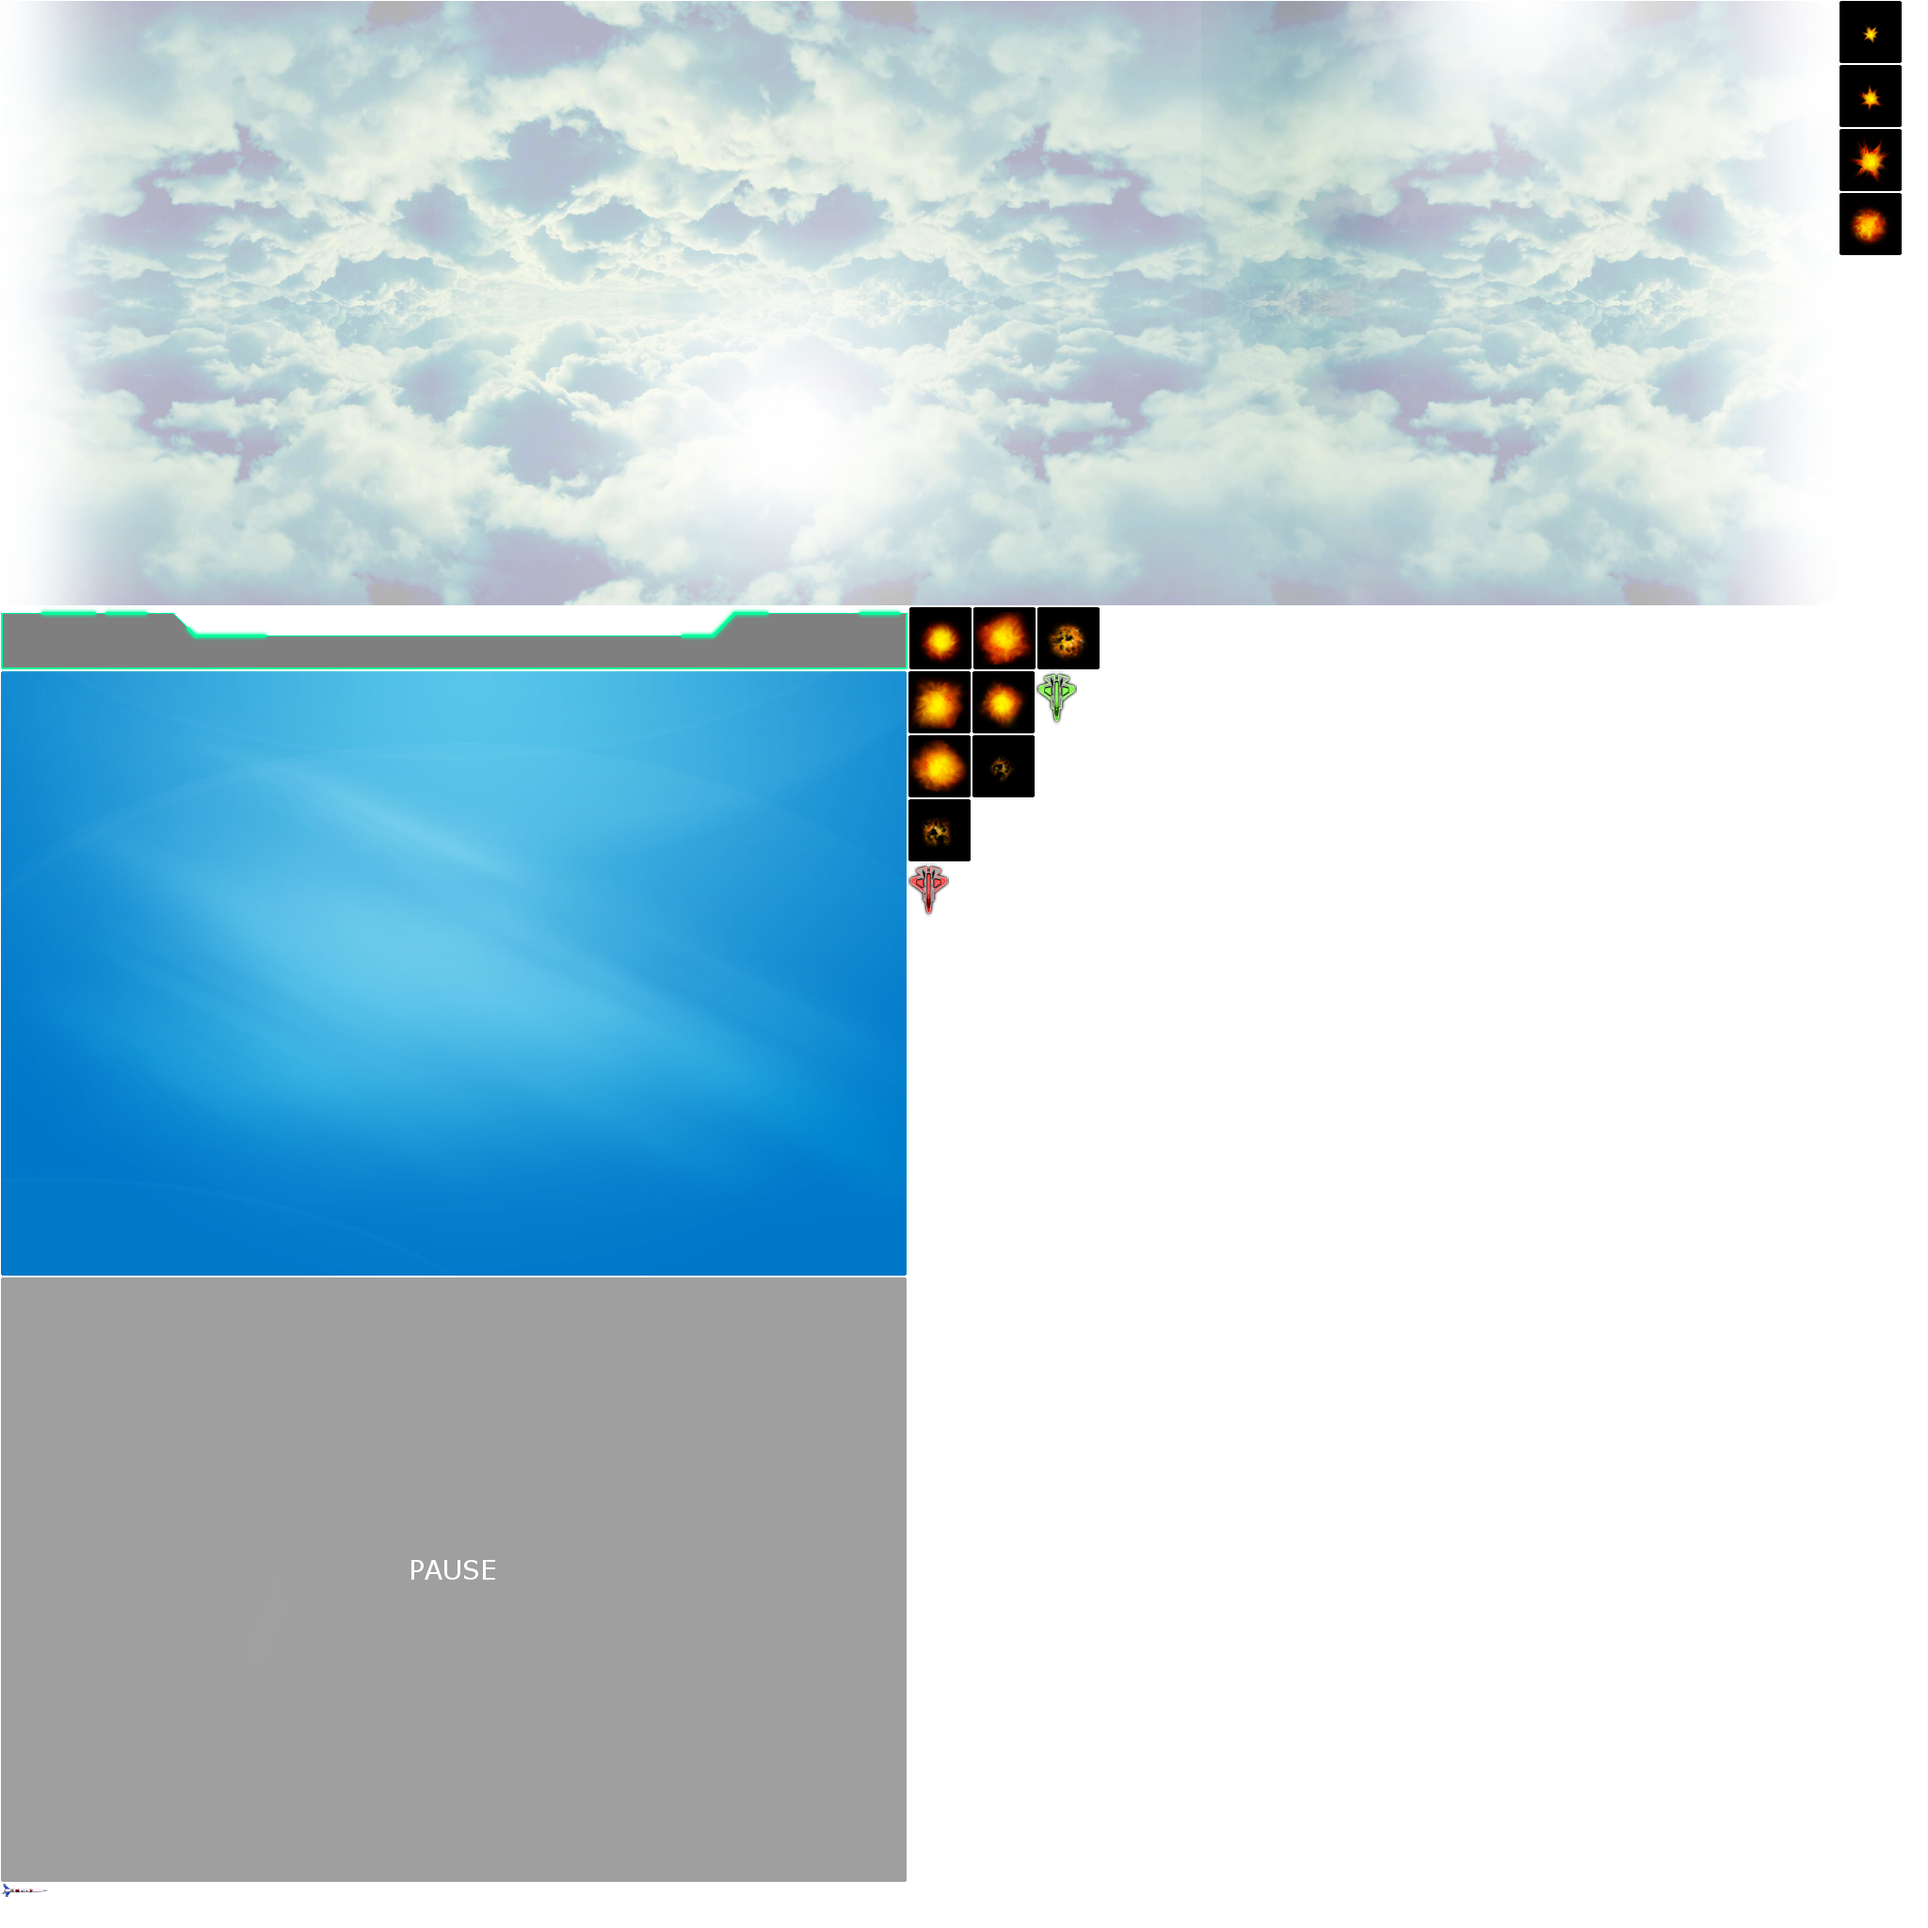
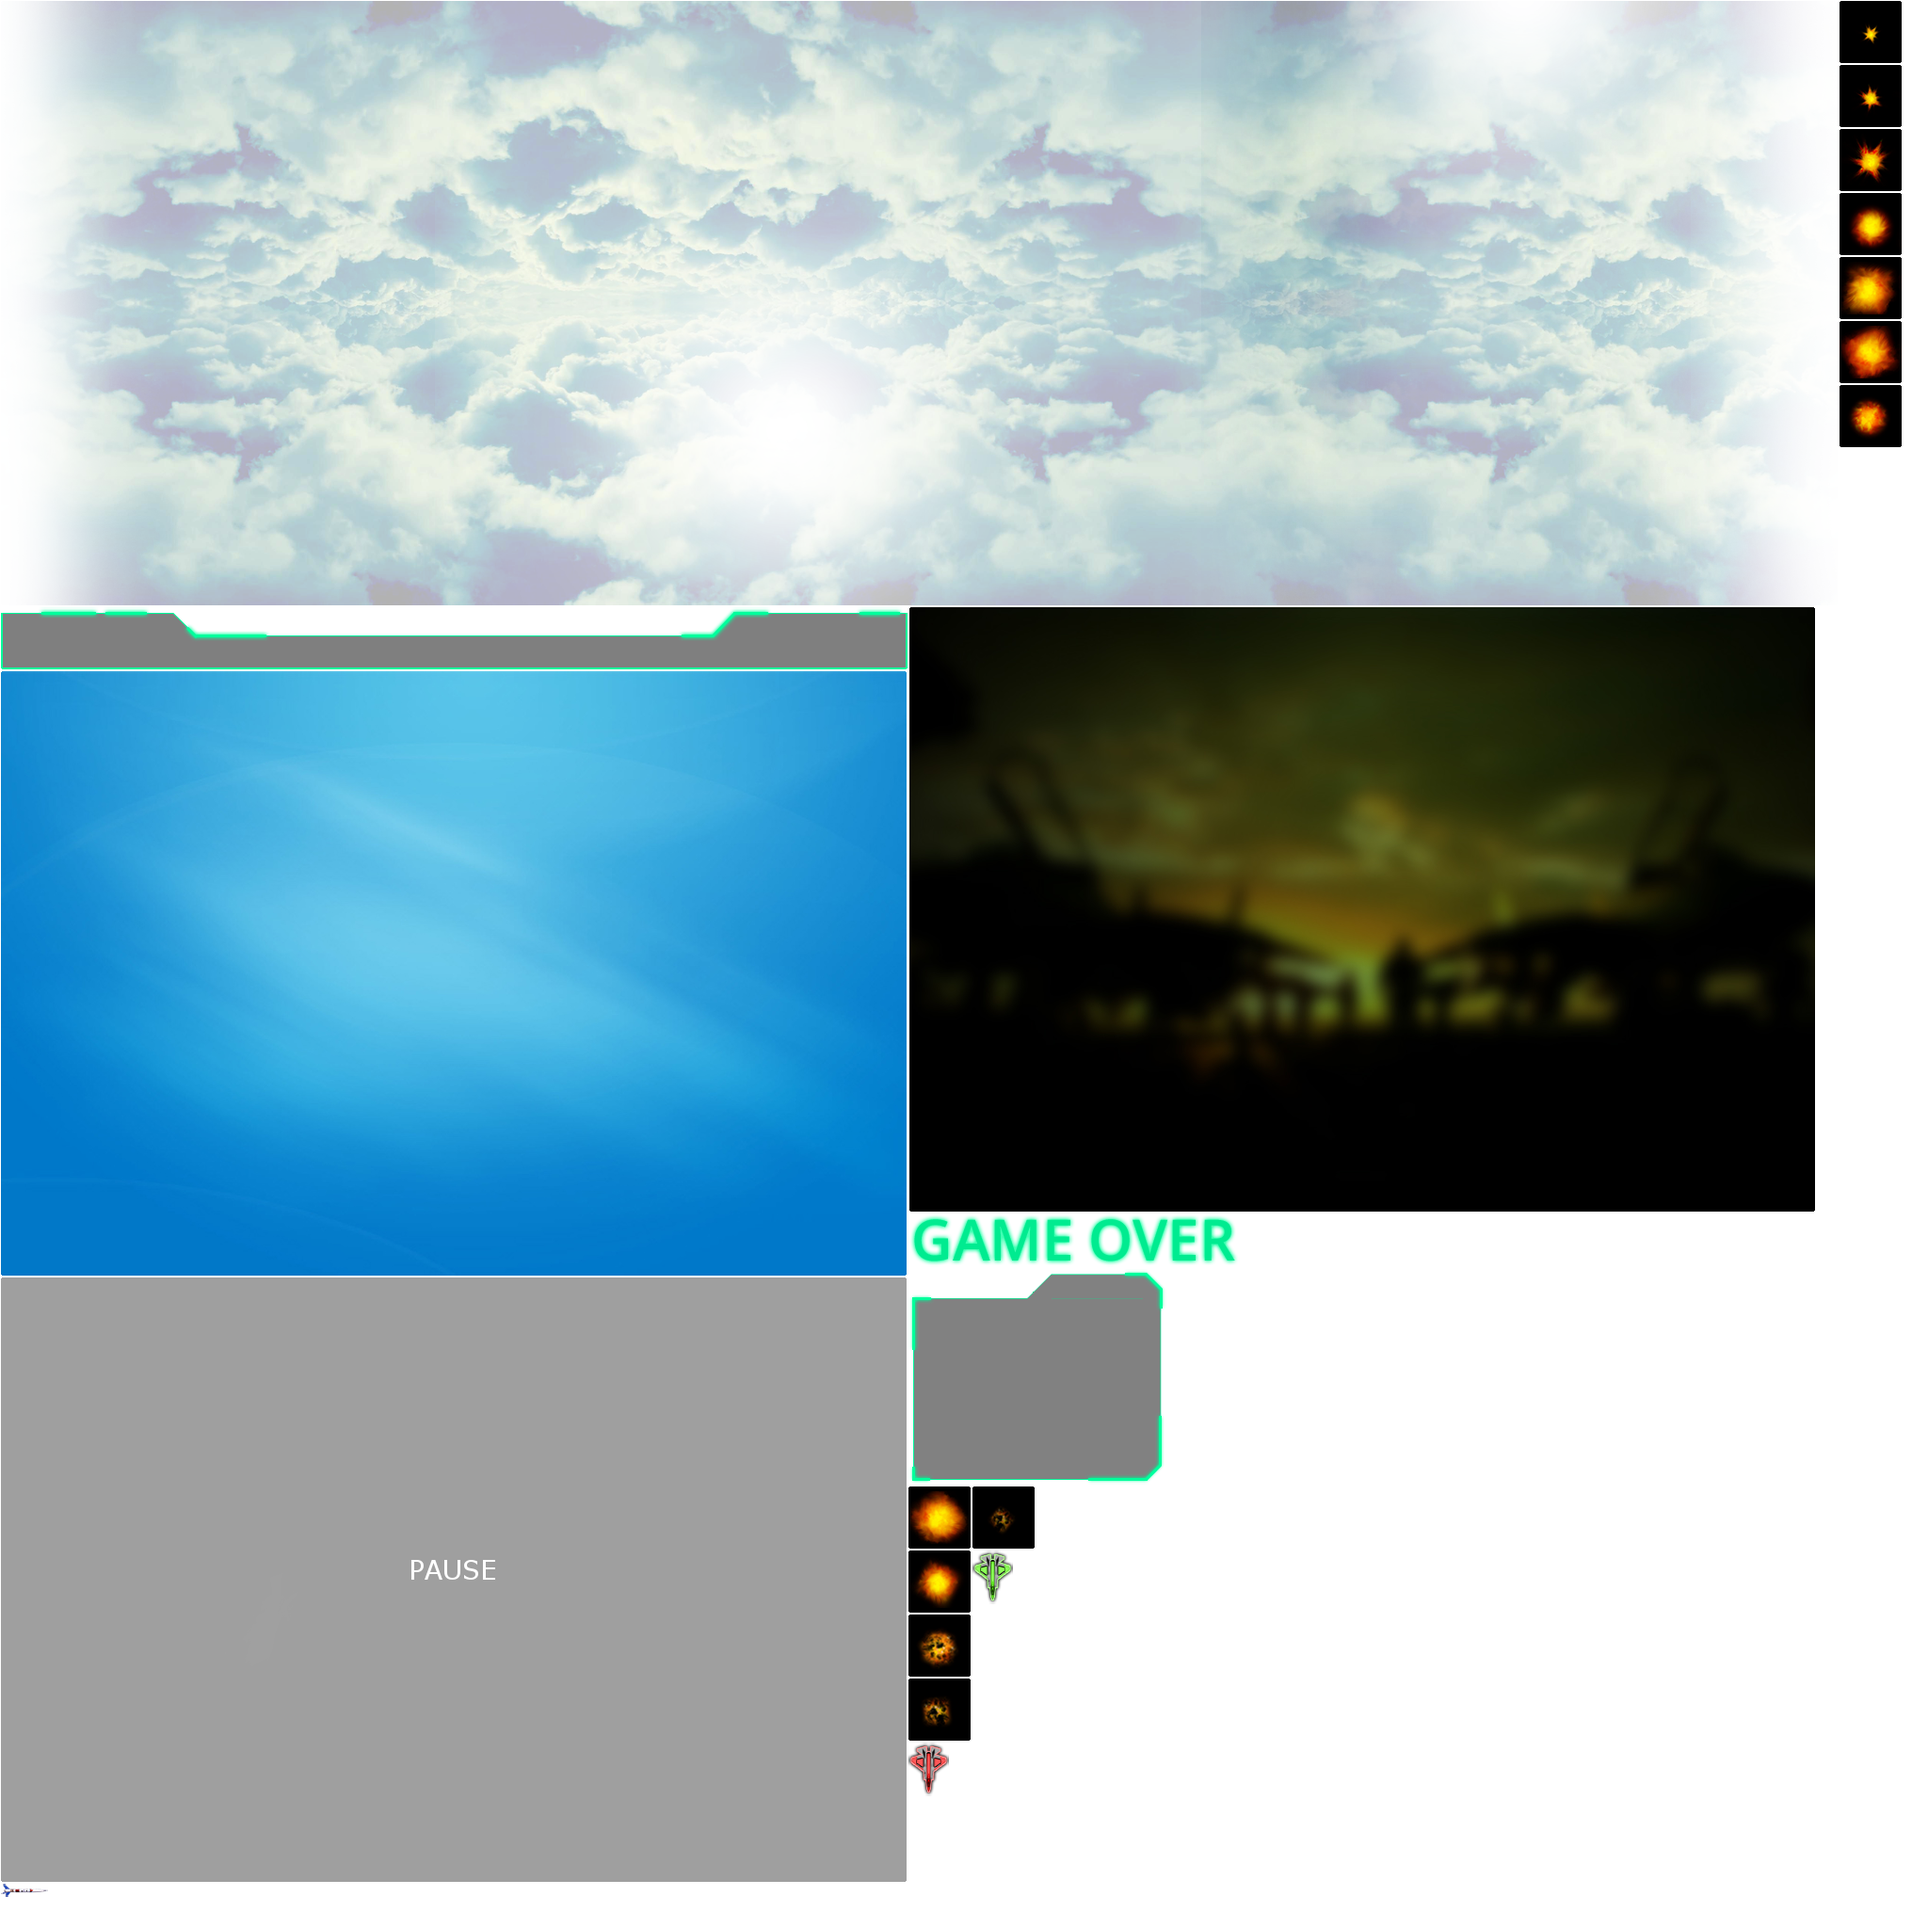
New results window

Changed region(s): [[0.4688, 0.3125, 0.9688, 0.9375], [0.9375, 0.0938, 1.0, 0.25]]

diff --git a/src/state/ResultState.cpp b/src/state/ResultState.cpp
@@ -1,0 +1,77 @@
+#include "ResultState.h"
+#include "Sprite.h"
+#include "initActor.h"
+#include "MenuState.h"
+#include "../resource/GameResource.h"
+#include "../display/SimpleButton.h"
+#include "FightState.h"
+#include "../core/Config.h"
+#ifdef _WIN32
+#pragma comment(lib, "shell32.lib")
+#include <windows.h>
+#endif
+
+using namespace std;
+spResultState ResultState::instance;
+
+ResultState::ResultState() {
+	spSprite resultbg = new Sprite;
+	resultbg->setResAnim(GameResource::ui.getResAnim("result"));
+	resultbg->attachTo(_view);
+
+	_resultMode = initActor(new Sprite,
+		arg_resAnim = GameResource::ui.getResAnim("result-menu"),
+		arg_anchor = Vector2(0.5f, 0.5f),
+		arg_attachTo = _view);
+	_resultMode->setX(_view->getWidth() / 2);
+	_resultMode->setY((_view->getHeight() / 2) + 80);
+	_resultMode->setTouchEnabled(false);
+
+	//create logo
+	spSprite gameover = initActor(new Sprite,
+		arg_resAnim = GameResource::ui.getResAnim("game_over"),
+		arg_anchor = Vector2(0.5f, 0.5f),
+		arg_attachTo = _view);
+	gameover->setX(_view->getWidth()/2);
+	gameover->setY(_view->getHeight()/4 - 20);
+
+	this->_initResult();
+	_resultMode->addEventListener(TouchEvent::CLICK, CLOSURE(this, &ResultState::onEvent));
+}
+
+void ResultState::_initResult() {
+	float buttonX = _resultMode->getWidth() / 2;
+	float buttonY = 74;
+	char* menuBtns[] = { "MENU", "RESTART", "EXIT" };
+	char* menuBtnsName[] = { "menu", "restart", "exit" };
+
+	spSimpleButton button;
+
+	for (int i = 0; i < 3; i++) {
+		button = new SimpleButton();
+		button->setName(menuBtnsName[i]);
+		button->setAnchor(Vector2(0.5f, 0.5f));
+		button->setText(menuBtns[i]);
+		button->attachTo(_resultMode);
+		button->setPosition(buttonX, buttonY);
+		buttonY += button->getHeight() + 13;
+	}
+}
+
+void ResultState::onEvent(Event* ev) {
+	const std::string target = ev->target->getName();
+
+	if (target == "menu") {
+		log::messageln("mode changed restart");
+		changeState(MenuState::instance);
+		return;
+	}
+	else if (target == "restart") {
+		log::messageln("mode changed exit");
+		changeState(FightState::instance);
+		return;
+	}
+	else if (target == "exit") {
+		core::requestQuit();
+	}
+}

diff --git a/src/display/FightStage.cpp b/src/display/FightStage.cpp
@@ -2,7 +2,7 @@
 #include "../core/Config.h"
 #include "../resource/GameResource.h"
 #include "Pickup.h"
-#include "../state/MenuState.h"
+#include "../state/ResultState.h"
 
 FightStage::FightStage() {
 
@@ -151,7 +151,7 @@ void FightStage::doUpdate(const UpdateState& us) {
 		if (child->isDead()) {
 			//it is dead. Time to remove it from list
 			if (child->getName() == "Green AF" || child->getName() == "Red AF") {
-				_parentState->changeState(MenuState::instance);
+				_parentState->changeState(ResultState::instance);
 			}
 
 			i = _units.erase(i);

diff --git a/src/core/Game.cpp b/src/core/Game.cpp
@@ -4,6 +4,7 @@
 #include "../resource/GameResource.h"
 #include "../state/MenuState.h"
 #include "../state/FightState.h"
+#include "../state/ResultState.h"
 
 using namespace oxygine;
 
@@ -28,6 +29,9 @@ void Game::init() {
 
 	// create menu state 
 	MenuState::instance = new MenuState();
+
+	// create result state 
+	ResultState::instance = new ResultState();
 	
 	// open state (starts from menu)
 	MenuState::instance->show();

diff --git a/src/state/ResultState.h b/src/state/ResultState.h
@@ -1,0 +1,21 @@
+#include "State.h"
+#include "../display/InputField.h"
+#include "../resource/GameResource.h"
+
+DECLARE_SMART(ResultState, spResultState);
+
+class ResultState : public State {
+private:
+	spSprite     _resultMode;
+	void onEvent(Event* ev);
+	void _initResult();
+	short _nextState;
+	short _task;
+
+public:
+	ResultState();
+	static spResultState instance;
+	Tween::EASE _ease;
+	spActor _easeGraph;
+
+};
